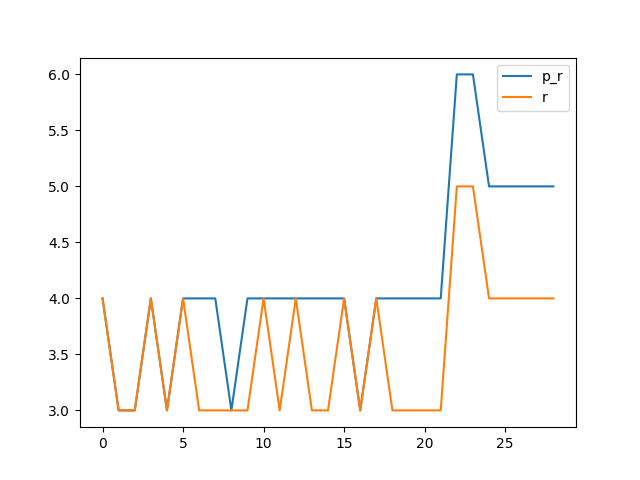
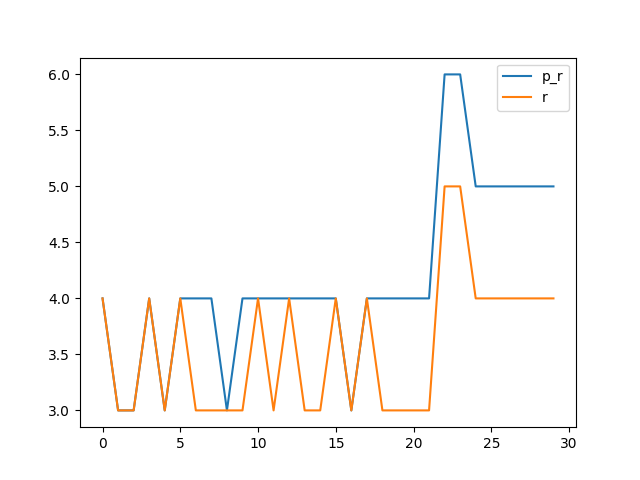
0x001D

diff --git a/benchmark.md b/benchmark.md
@@ -56,16 +56,18 @@ Synthesising 0x001B pexact:304 r=5 exact:320 r=4
 
 Synthesising 0x001C pexact:310 r=5 exact:336 r=4
 
+Synthesising 0x001D pexact:304 r=5 exact:352 r=4
+
 ```mermaid
 xychart-beta
     title "Comparison powertwoexact twoexact"
-    x-axis [0, 1, 2, 3, 4, 5, 6, 7, 8, 9, 10, 11, 12, 13, 14, 15, 16, 17, 18, 19, 20, 21, 22, 23, 24, 25, 26, 27, 28]
+    x-axis [0, 1, 2, 3, 4, 5, 6, 7, 8, 9, 10, 11, 12, 13, 14, 15, 16, 17, 18, 19, 20, 21, 22, 23, 24, 25, 26, 27, 28, 29]
     y-axis "Switching Activity" 0-->464
-    line [96, 152, 152, 182, 152, 182, 208, 182, 152, 208, 182, 182, 182, 182, 182, 182, 152, 182, 208, 182, 208, 182, 406, 400, 336, 310, 310, 304, 310]
-    line [192, 152, 152, 312, 152, 352, 224, 192, 192, 224, 352, 216, 320, 216, 216, 352, 152, 326, 224, 216, 224, 192, 464, 448, 352, 344, 344, 320, 336]
-    line [215.44827586206895, 215.44827586206895, 215.44827586206895, 215.44827586206895, 215.44827586206895, 215.44827586206895, 215.44827586206895, 215.44827586206895, 215.44827586206895, 215.44827586206895, 215.44827586206895, 215.44827586206895, 215.44827586206895, 215.44827586206895, 215.44827586206895, 215.44827586206895, 215.44827586206895, 215.44827586206895, 215.44827586206895, 215.44827586206895, 215.44827586206895, 215.44827586206895, 215.44827586206895, 215.44827586206895, 215.44827586206895, 215.44827586206895, 215.44827586206895, 215.44827586206895, 215.44827586206895]
-    line [267.51724137931035, 267.51724137931035, 267.51724137931035, 267.51724137931035, 267.51724137931035, 267.51724137931035, 267.51724137931035, 267.51724137931035, 267.51724137931035, 267.51724137931035, 267.51724137931035, 267.51724137931035, 267.51724137931035, 267.51724137931035, 267.51724137931035, 267.51724137931035, 267.51724137931035, 267.51724137931035, 267.51724137931035, 267.51724137931035, 267.51724137931035, 267.51724137931035, 267.51724137931035, 267.51724137931035, 267.51724137931035, 267.51724137931035, 267.51724137931035, 267.51724137931035, 267.51724137931035]
-    bar [80, 60, 60, 80, 60, 80, 80, 80, 60, 80, 80, 80, 80, 80, 80, 80, 60, 80, 80, 80, 80, 80, 120, 120, 100, 100, 100, 100, 100]
-    bar [80, 60, 60, 80, 60, 80, 60, 60, 60, 60, 80, 60, 80, 60, 60, 80, 60, 80, 60, 60, 60, 60, 100, 100, 80, 80, 80, 80, 80]
+    line [96, 152, 152, 182, 152, 182, 208, 182, 152, 208, 182, 182, 182, 182, 182, 182, 152, 182, 208, 182, 208, 182, 406, 400, 336, 310, 310, 304, 310, 304]
+    line [192, 152, 152, 312, 152, 352, 224, 192, 192, 224, 352, 216, 320, 216, 216, 352, 152, 326, 224, 216, 224, 192, 464, 448, 352, 344, 344, 320, 336, 352]
+    line [218.4, 218.4, 218.4, 218.4, 218.4, 218.4, 218.4, 218.4, 218.4, 218.4, 218.4, 218.4, 218.4, 218.4, 218.4, 218.4, 218.4, 218.4, 218.4, 218.4, 218.4, 218.4, 218.4, 218.4, 218.4, 218.4, 218.4, 218.4, 218.4, 218.4]
+    line [270.3333333333333, 270.3333333333333, 270.3333333333333, 270.3333333333333, 270.3333333333333, 270.3333333333333, 270.3333333333333, 270.3333333333333, 270.3333333333333, 270.3333333333333, 270.3333333333333, 270.3333333333333, 270.3333333333333, 270.3333333333333, 270.3333333333333, 270.3333333333333, 270.3333333333333, 270.3333333333333, 270.3333333333333, 270.3333333333333, 270.3333333333333, 270.3333333333333, 270.3333333333333, 270.3333333333333, 270.3333333333333, 270.3333333333333, 270.3333333333333, 270.3333333333333, 270.3333333333333, 270.3333333333333]
+    bar [80, 60, 60, 80, 60, 80, 80, 80, 60, 80, 80, 80, 80, 80, 80, 80, 60, 80, 80, 80, 80, 80, 120, 120, 100, 100, 100, 100, 100, 100]
+    bar [80, 60, 60, 80, 60, 80, 60, 60, 60, 60, 80, 60, 80, 60, 60, 80, 60, 80, 60, 60, 60, 60, 100, 100, 80, 80, 80, 80, 80, 80]
 ```
 
